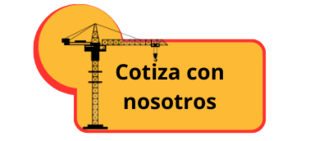
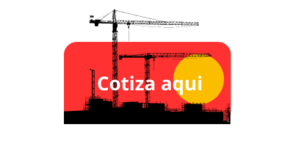
cambio de imagen
falta darle mas tamañoa los logos se ven muy apretados

diff --git a/css/estilos.css b/css/estilos.css
@@ -71,13 +71,13 @@ nav{
 }
 
 #menu ul li {
-    background-color: #ffffff;
+    background-color: black;
 
 }
 
 #menu ul a {
     display:block;
-    color:#000000;
+    color:white;
     text-decoration:none;
     font-weight:bolder;
     font-size:13px;
@@ -97,7 +97,7 @@ nav{
 }
 
 #menu ul li a:hover {
-    color:#dfdc37;
+    color:#fbbd00;
 }
 
 #menu ul ul {
@@ -131,7 +131,7 @@ nav{
 
 header{
     height: 100px;
-    background-color: #ffffff;
+    background-color: black;
     display: flex;
     flex-direction: row;
 }
@@ -1079,7 +1079,7 @@ margin-bottom: 5%;
   width: 100%;
   position: relative;
   height: auto;
-  background-color: #070617;
+  background-color: black;
 }
 .footer .col {
   width: 190px;
@@ -1182,7 +1182,7 @@ margin-bottom: 5%;
 /* boton cotizar */
 
 .cotizar{
-	background-color: #f0f0f1;
+	background-color: #fbbd00;
     height: 500px;
     margin-top: 5%;
     padding-top: 2%;
@@ -1416,3 +1416,5 @@ form button{
     text-align: center;
     margin-top: 5%;
   }
+
+  
